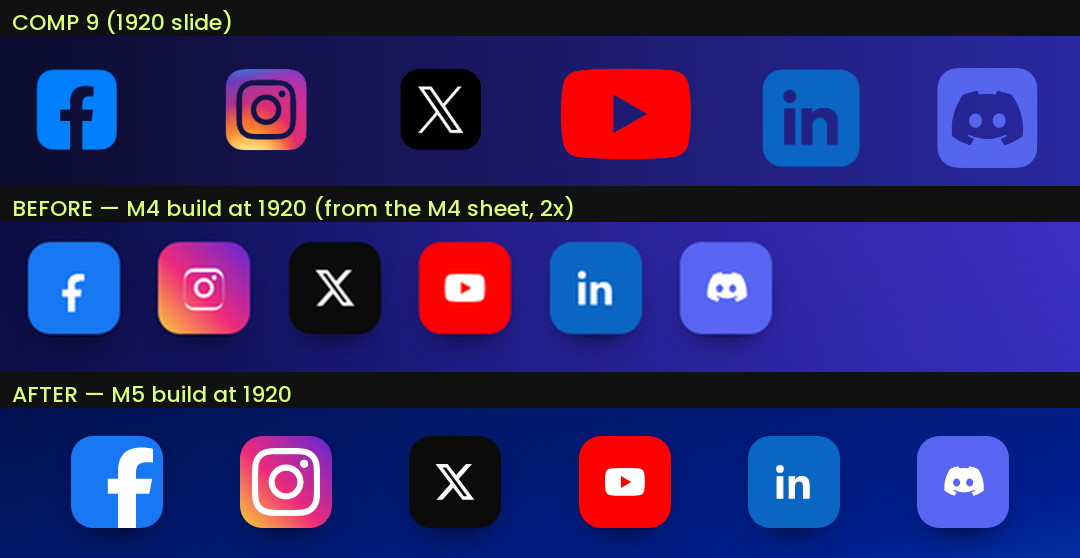
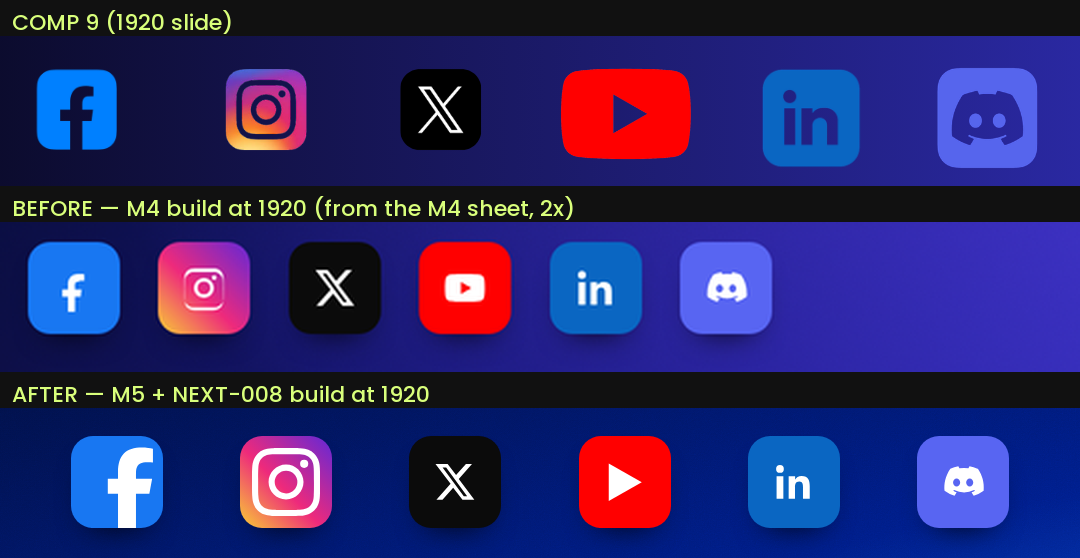
NEXT-008 B: the YouTube glyph is the play triangle alone
The tile already is the red rounded rectangle, so the white miniature of
the whole mark drew the logo twice. Triangle geometry from Simple Icons'
youtube path, scaled to 14 units, kept right of centre as the mark has it.

Changed region(s): [[0.1222, 0.6703, 0.3972, 0.7312], [0.55, 0.8226, 0.6111, 0.914]]

diff --git a/components/icons.tsx b/components/icons.tsx
@@ -141,9 +141,17 @@ export const socialIcons: Record<string, (p: IconProps) => ReactElement> = {
       <path d="M17.53 3h3.04l-6.64 7.59L21.75 21h-5.96l-4.67-6.1L5.77 21H2.72l7.1-8.12L2.25 3h6.11l4.22 5.58L17.53 3Zm-1.07 16.17h1.68L7.6 4.74H5.8l10.66 14.43Z" />
     </svg>
   ),
+  /* YouTube: the mark *is* the red rounded rectangle with the play
+     triangle, and the tile already is that rectangle, so the glyph is the
+     triangle alone (NEXT-008 B). Its geometry is the triangle from Simple
+     Icons' youtube path (CC0, simple-icons 16.31), scaled to 14 units tall
+     and kept at the mark's own slightly right-of-centre position. */
   youtube: ({ className }) => (
     <svg className={className} viewBox="0 0 24 24" fill="currentColor" aria-hidden="true">
-      <path d="M21.6 7.2a2.51 2.51 0 0 0-1.77-1.77C18.25 5 12 5 12 5s-6.25 0-7.83.43A2.51 2.51 0 0 0 2.4 7.2C2 8.79 2 12 2 12s0 3.21.4 4.8a2.51 2.51 0 0 0 1.77 1.77C5.75 19 12 19 12 19s6.25 0 7.83-.43a2.51 2.51 0 0 0 1.77-1.77C22 15.21 22 12 22 12s0-3.21-.4-4.8ZM10.02 15.02V8.98L15.2 12l-5.18 3.02Z" />
+      <path
+        transform="translate(12.4 12) scale(1.962) translate(-12.6815 -12)"
+        d="M9.545 15.568V8.432L15.818 12l-6.273 3.568z"
+      />
     </svg>
   ),
   linkedin: ({ className }) => (

diff --git a/styles/globals.css b/styles/globals.css
@@ -1047,6 +1047,12 @@ button {
   height: 74%;
 }
 
+/* The play triangle alone: the tile is already the YouTube rectangle. */
+.social--youtube svg {
+  width: 70%;
+  height: 70%;
+}
+
 .social:hover {
   transform: translateY(-6px) scale(1.06);
   box-shadow: 0 24px 40px -18px rgba(0, 0, 0, 0.95);
